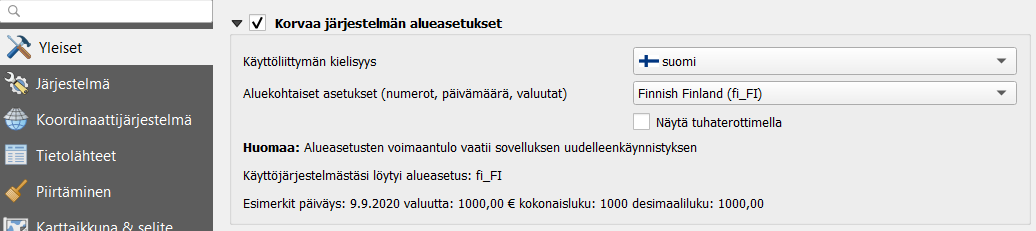
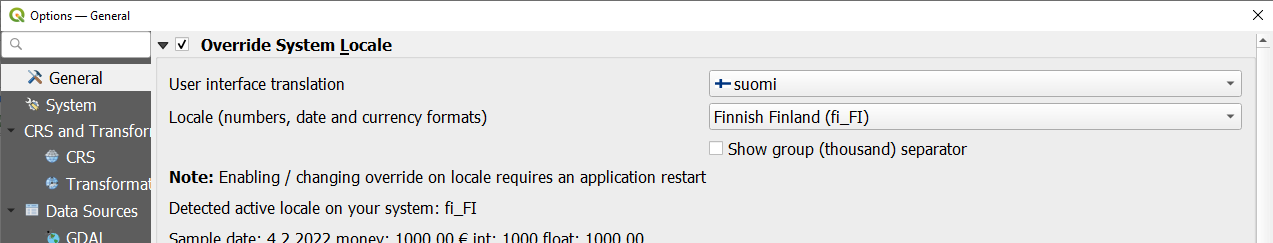
Automatic: Update docs

Changed region(s): [[0.0, 0.0, 1.0, 1.0], [0.9884, 0.1515, 1.0, 0.1818]]

diff --git a/docs/3-harjoitus-2-paikkatietoaineistot-ja-qgisin-käyttöliittymä.html b/docs/3-harjoitus-2-paikkatietoaineistot-ja-qgisin-käyttöliittymä.html
@@ -170,7 +170,7 @@ type="button" onclick="navToggle()" aria-label="Toggle navigation">
 Avaa uusi QGIS-projekti (<strong>Projekti &gt; Uusi</strong>) ja tallenna se nimellä “<strong>QGIS-harjoitus 2</strong>”.</p>
 <div id="paikkatietoaineiston-tiedostot" class="section level2" number="3.1">
 <h2><span class="header-section-number">3.1</span> Paikkatietoaineiston tiedostot</h2>
-<p>QGISin käyttöliittymä saattaa aueta englanninkielisenä ensimmäisellä käyttökerralla, mutta voit vaihtaa kielen suomeksi valitsemalla QGISin ylävalikosta <strong>Asetukset &gt; Valinnat</strong> ja tämän jälkeen <strong>Yleiset &gt; Käyttöliittymän kielisyys &gt; suomi</strong>. Paina lopuksi <strong>OK</strong>.</p>
+<p>QGISin käyttöliittymä saattaa aueta englanninkielisenä ensimmäisellä käyttökerralla, mutta voit vaihtaa kielen suomeksi valitsemalla QGISin ylävalikosta <strong>Settings &gt; Options</strong> ja tämän jälkeen <strong>General &gt; User interface translation &gt; suomi</strong>. Paina lopuksi <strong>OK</strong>.</p>
 <p><img src="img/harjoitus_2/image1.png" /></p>
 <p>Jotta juuri tekemäsi muutos tulee voimaan, sinun tulee käynnistää QGIS uudelleen.</p>
 <p>Mene seuraavaksi tietokoneesi resurssienhallinnan kautta kurssihakemistoon. Avaa sieltä kansio <strong>../MML/YK_1M</strong> ja tarkastele tiedostoja. Voit huomata, että kansiosta löytyy useita samannimisiä tiedostoja, mutta tiedostopääte on eri. Tarkastele esimerkiksi TieViiva-tiedostoja.</p>
@@ -180,22 +180,22 @@ Avaa uusi QGIS-projekti (<strong>Projekti &gt; Uusi</strong>) ja tallenna se nim
 <table>
 <thead>
 <tr class="header">
-<th align="center">Formaatti</th>
-<th align="center">Sisältö</th>
+<th align="left">Formaatti</th>
+<th align="left">Sisältö</th>
 </tr>
 </thead>
 <tbody>
 <tr class="odd">
-<td align="center">.shp</td>
-<td align="center">Aineiston geometriatiedot</td>
+<td align="left">.shp</td>
+<td align="left">Aineiston geometriatiedot</td>
 </tr>
 <tr class="even">
-<td align="center">.prj</td>
-<td align="center">Käytetyn koordinaattijärjestelmän määritelmä</td>
+<td align="left">.prj</td>
+<td align="left">Käytetyn koordinaattijärjestelmän määritelmä</td>
 </tr>
 <tr class="odd">
-<td align="center">.dbf</td>
-<td align="center">Paikkatiedon ominaisuustietotaulu (attribuuttitaulu)</td>
+<td align="left">.dbf</td>
+<td align="left">Paikkatiedon ominaisuustietotaulu (attribuuttitaulu)</td>
 </tr>
 </tbody>
 </table>
@@ -203,22 +203,22 @@ Avaa uusi QGIS-projekti (<strong>Projekti &gt; Uusi</strong>) ja tallenna se nim
 <table>
 <thead>
 <tr class="header">
-<th align="center">Formaatti</th>
-<th align="center">Sisältö</th>
+<th align="left">Formaatti</th>
+<th align="left">Sisältö</th>
 </tr>
 </thead>
 <tbody>
 <tr class="odd">
-<td align="center">.shx</td>
-<td align="center">Geometriatietojen indeksi</td>
+<td align="left">.shx</td>
+<td align="left">Geometriatietojen indeksi</td>
 </tr>
 <tr class="even">
-<td align="center">.sbn/sbx</td>
-<td align="center">Spatiaalinen indeksi</td>
+<td align="left">.sbn/sbx</td>
+<td align="left">Spatiaalinen indeksi</td>
 </tr>
 <tr class="odd">
-<td align="center">.cpg</td>
-<td align="center">Kirjainmerkistön koodi</td>
+<td align="left">.cpg</td>
+<td align="left">Kirjainmerkistön koodi</td>
 </tr>
 </tbody>
 </table>
@@ -253,23 +253,23 @@ Tilapalkista löydät hiiren kursorin koordinaatit (joko metreinä tai leveys- j
 <table>
 <tbody>
 <tr class="odd">
-<td align="center">Zoomaa täydeksi</td>
+<td align="left">Zoomaa täydeksi</td>
 <td align="center"><img src="img/harjoitus_2/image8.png" /></td>
 </tr>
 <tr class="even">
-<td align="center">Zoomaa tasoon</td>
+<td align="left">Zoomaa tasoon</td>
 <td align="center"><img src="img/harjoitus_2/image9.png" /></td>
 </tr>
 <tr class="odd">
-<td align="center">Näytä kohteen tiedot</td>
+<td align="left">Näytä kohteen tiedot</td>
 <td align="center"><img src="img/harjoitus_2/image10.png" /></td>
 </tr>
 <tr class="even">
-<td align="center">Avaa attribuuttitaulu</td>
+<td align="left">Avaa attribuuttitaulu</td>
 <td align="center"><img src="img/harjoitus_2/image11.png" /></td>
 </tr>
 <tr class="odd">
-<td align="center">Mittaa viivan pituus</td>
+<td align="left">Mittaa viivan pituus</td>
 <td align="center"><img src="img/harjoitus_2/image12.png" /></td>
 </tr>
 </tbody>
